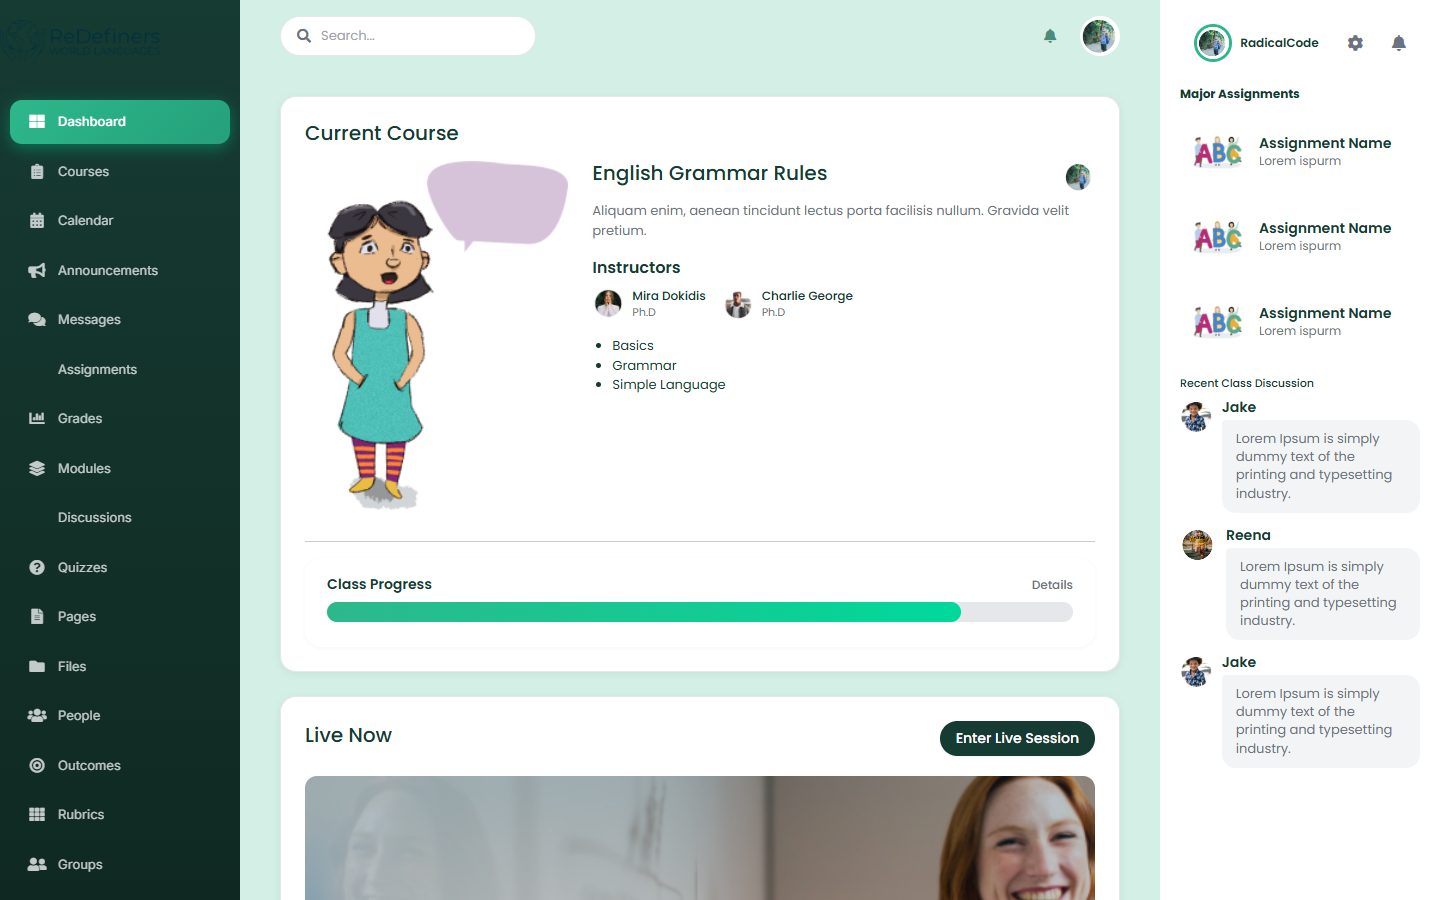
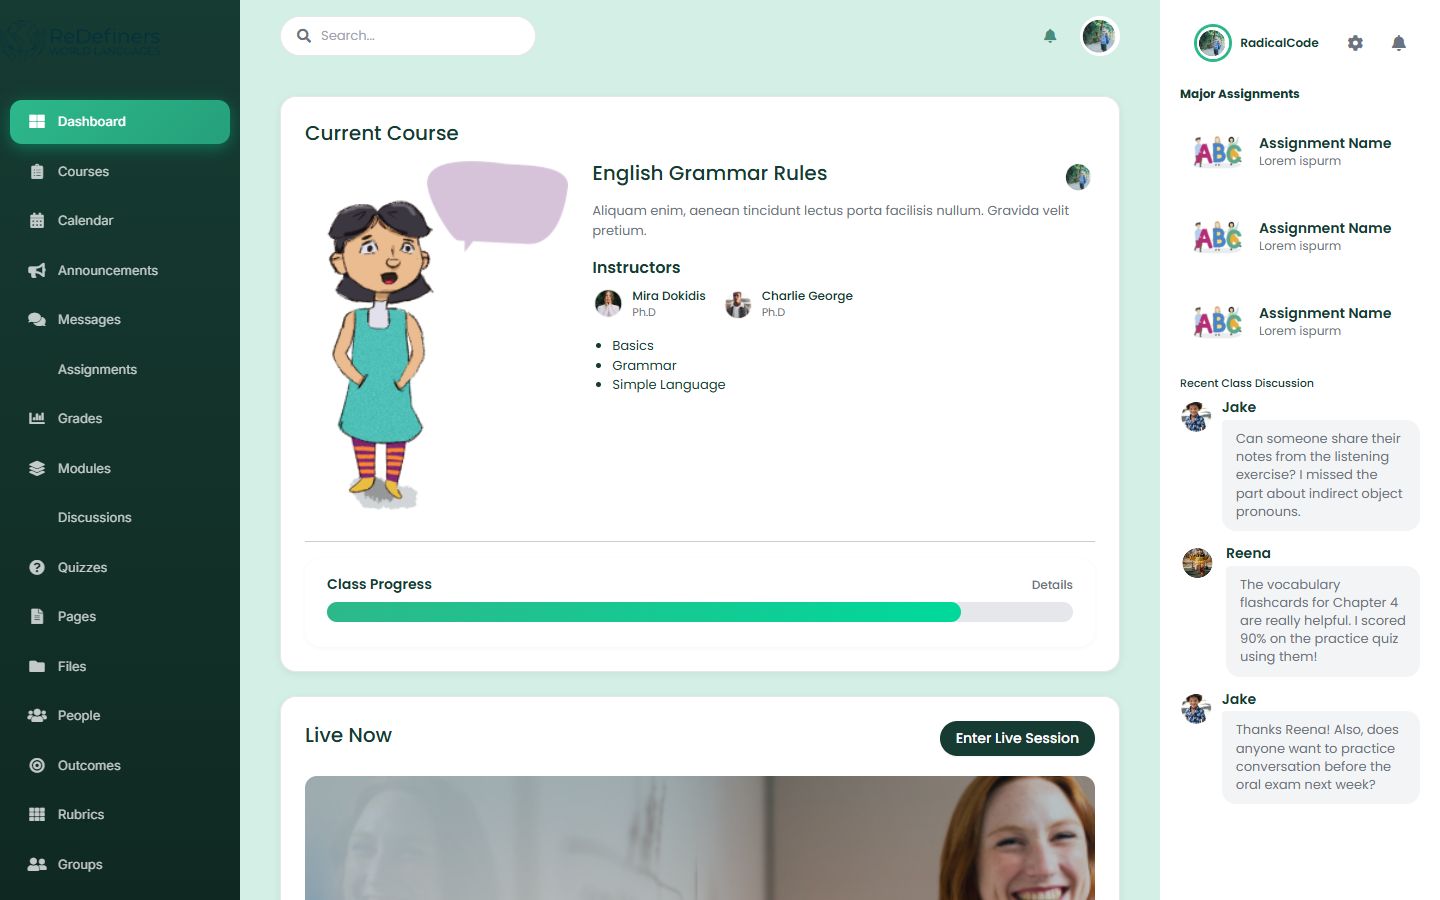
Replace lorem ipsum with meaningful Spanish course content
- Announcements: real course messages (midterm schedule, tutoring,
  guest speaker, grades posted, spring break, study groups, rubric)
- Dashboard discussions: Spanish grammar questions and study tips
- Classroom discussions: listening notes, vocab flashcards, oral exam prep
- Updated screenshots for affected pages (both themes)

Changed region(s): [[0.8125, 0.4667, 0.9688, 0.9022]]

diff --git a/announcement.html b/announcement.html
@@ -103,13 +103,13 @@
 					</thead>
 					<tr class="table-tr table-tr1">
 						<td class="table-td table-td1" data-label="Message">
-							Lorem Ipsum is simply dummy
+							Midterm exam schedule posted for all Spanish courses
 						</td>
 						<td class="table-td table-td1" data-label="Type">
 							Email
 						</td>
 						<td class="table-td table-td1" data-label="Date">
-							15/02/21
+							03/22/26
 						</td>
 						<td class="table-td table-td1" data-label="Action">
 							<button class="second-color">
@@ -120,13 +120,13 @@
 					</tr>
 					<tr class="table-tr table-tr1 purple-td">
 						<td class="table-td table-td1 tw-text-white" data-label="Message">
-							Lorem Ipsum is simply dummy
+							New tutoring hours available for verb conjugation practice
 						</td>
 						<td class="table-td table-td1 tw-text-white" data-label="Type">
 							Email
 						</td>
 						<td class="table-td table-td1 tw-text-white" data-label="Date">
-							15/02/21
+							03/20/26
 						</td>
 						<td class="table-td table-td1 tw-text-white" data-label="Action">
 							<button class="second-color open-pop tw-border-white tw-bg-white tw-text-[#A766D7] tw-font-bold">
@@ -141,13 +141,13 @@
 					</tr>
 					<tr class="table-tr table-tr1">
 						<td class="table-td table-td1" data-label="Message">
-							Lorem Ipsum is simply dummy
+							Guest speaker confirmed for Cultural Friday session
 						</td>
 						<td class="table-td table-td1" data-label="Type">
 							Email
 						</td>
 						<td class="table-td table-td1" data-label="Date">
-							15/02/21
+							03/18/26
 						</td>
 						<td class="table-td table-td1" data-label="Action">
 							<button class="second-color">
@@ -158,13 +158,13 @@
 					</tr>
 					<tr class="table-tr table-tr1">
 						<td class="table-td table-td1" data-label="Message">
-							Lorem Ipsum is simply dummy
+							Homework 4 graded — check your scores in Grades
 						</td>
 						<td class="table-td table-td1" data-label="Type">
 							Email
 						</td>
 						<td class="table-td table-td1" data-label="Date">
-							15/02/21
+							03/15/26
 						</td>
 						<td class="table-td table-td1" data-label="Action">
 							<button class="second-color">
@@ -175,13 +175,13 @@
 					</tr>
 					<tr class="table-tr table-tr1">
 						<td class="table-td table-td1" data-label="Message">
-							Lorem Ipsum is simply dummy
+							Spring break schedule reminder — no classes Mar 9-13
 						</td>
 						<td class="table-td table-td1" data-label="Type">
 							Email
 						</td>
 						<td class="table-td table-td1" data-label="Date">
-							15/02/21
+							03/07/26
 						</td>
 						<td class="table-td table-td1" data-label="Action">
 							<button class="second-color">
@@ -192,13 +192,13 @@
 					</tr>
 					<tr class="table-tr table-tr1">
 						<td class="table-td table-td1" data-label="Message">
-							Lorem Ipsum is simply dummy
+							Study group forming for Chapter 5 vocabulary review
 						</td>
 						<td class="table-td table-td1" data-label="Type">
 							Email
 						</td>
 						<td class="table-td table-td1" data-label="Date">
-							15/02/21
+							03/04/26
 						</td>
 						<td class="table-td table-td1" data-label="Action">
 							<button class="second-color">
@@ -209,13 +209,13 @@
 					</tr>
 					<tr class="table-tr table-tr1">
 						<td class="table-td table-td1" data-label="Message">
-							Lorem Ipsum is simply dummy
+							Oral presentation rubric updated — please review changes
 						</td>
 						<td class="table-td table-td1" data-label="Type">
 							Email
 						</td>
 						<td class="table-td table-td1" data-label="Date">
-							15/02/21
+							03/01/26
 						</td>
 						<td class="table-td table-td1" data-label="Action">
 							<button class="second-color">

diff --git a/classroom.html b/classroom.html
@@ -290,7 +290,7 @@
 								Jake
 							</h5>
 							<p>
-								Lorem Ipsum is simply dummy text of the printing and typesetting industry.
+								Can someone share their notes from the listening exercise? I missed the part about indirect object pronouns.
 							</p>
 						</div>
 					</div>
@@ -301,7 +301,7 @@
 								Reena
 							</h5>
 							<p>
-								Lorem Ipsum is simply dummy text of the printing and typesetting industry.
+								The vocabulary flashcards for Chapter 4 are really helpful. I scored 90% on the practice quiz using them!
 							</p>
 						</div>
 					</div>
@@ -312,7 +312,7 @@
 								Jake
 							</h5>
 							<p>
-								Lorem Ipsum is simply dummy text of the printing and typesetting industry.
+								Thanks Reena! Also, does anyone want to practice conversation before the oral exam next week?
 							</p>
 						</div>
 					</div>

diff --git a/dashboard.html b/dashboard.html
@@ -207,7 +207,7 @@
 								Jake
 							</h5>
 							<p>
-								Lorem Ipsum is simply dummy text of the printing and typesetting industry.
+								Has anyone figured out when to use the subjunctive after "esperar que"? I keep mixing it up with indicative.
 							</p>
 						</div>
 					</div>
@@ -218,7 +218,7 @@
 								Reena
 							</h5>
 							<p>
-								Lorem Ipsum is simply dummy text of the printing and typesetting industry.
+								Great session today! The preterite vs. imperfect exercise really helped me understand the difference.
 							</p>
 						</div>
 					</div>
